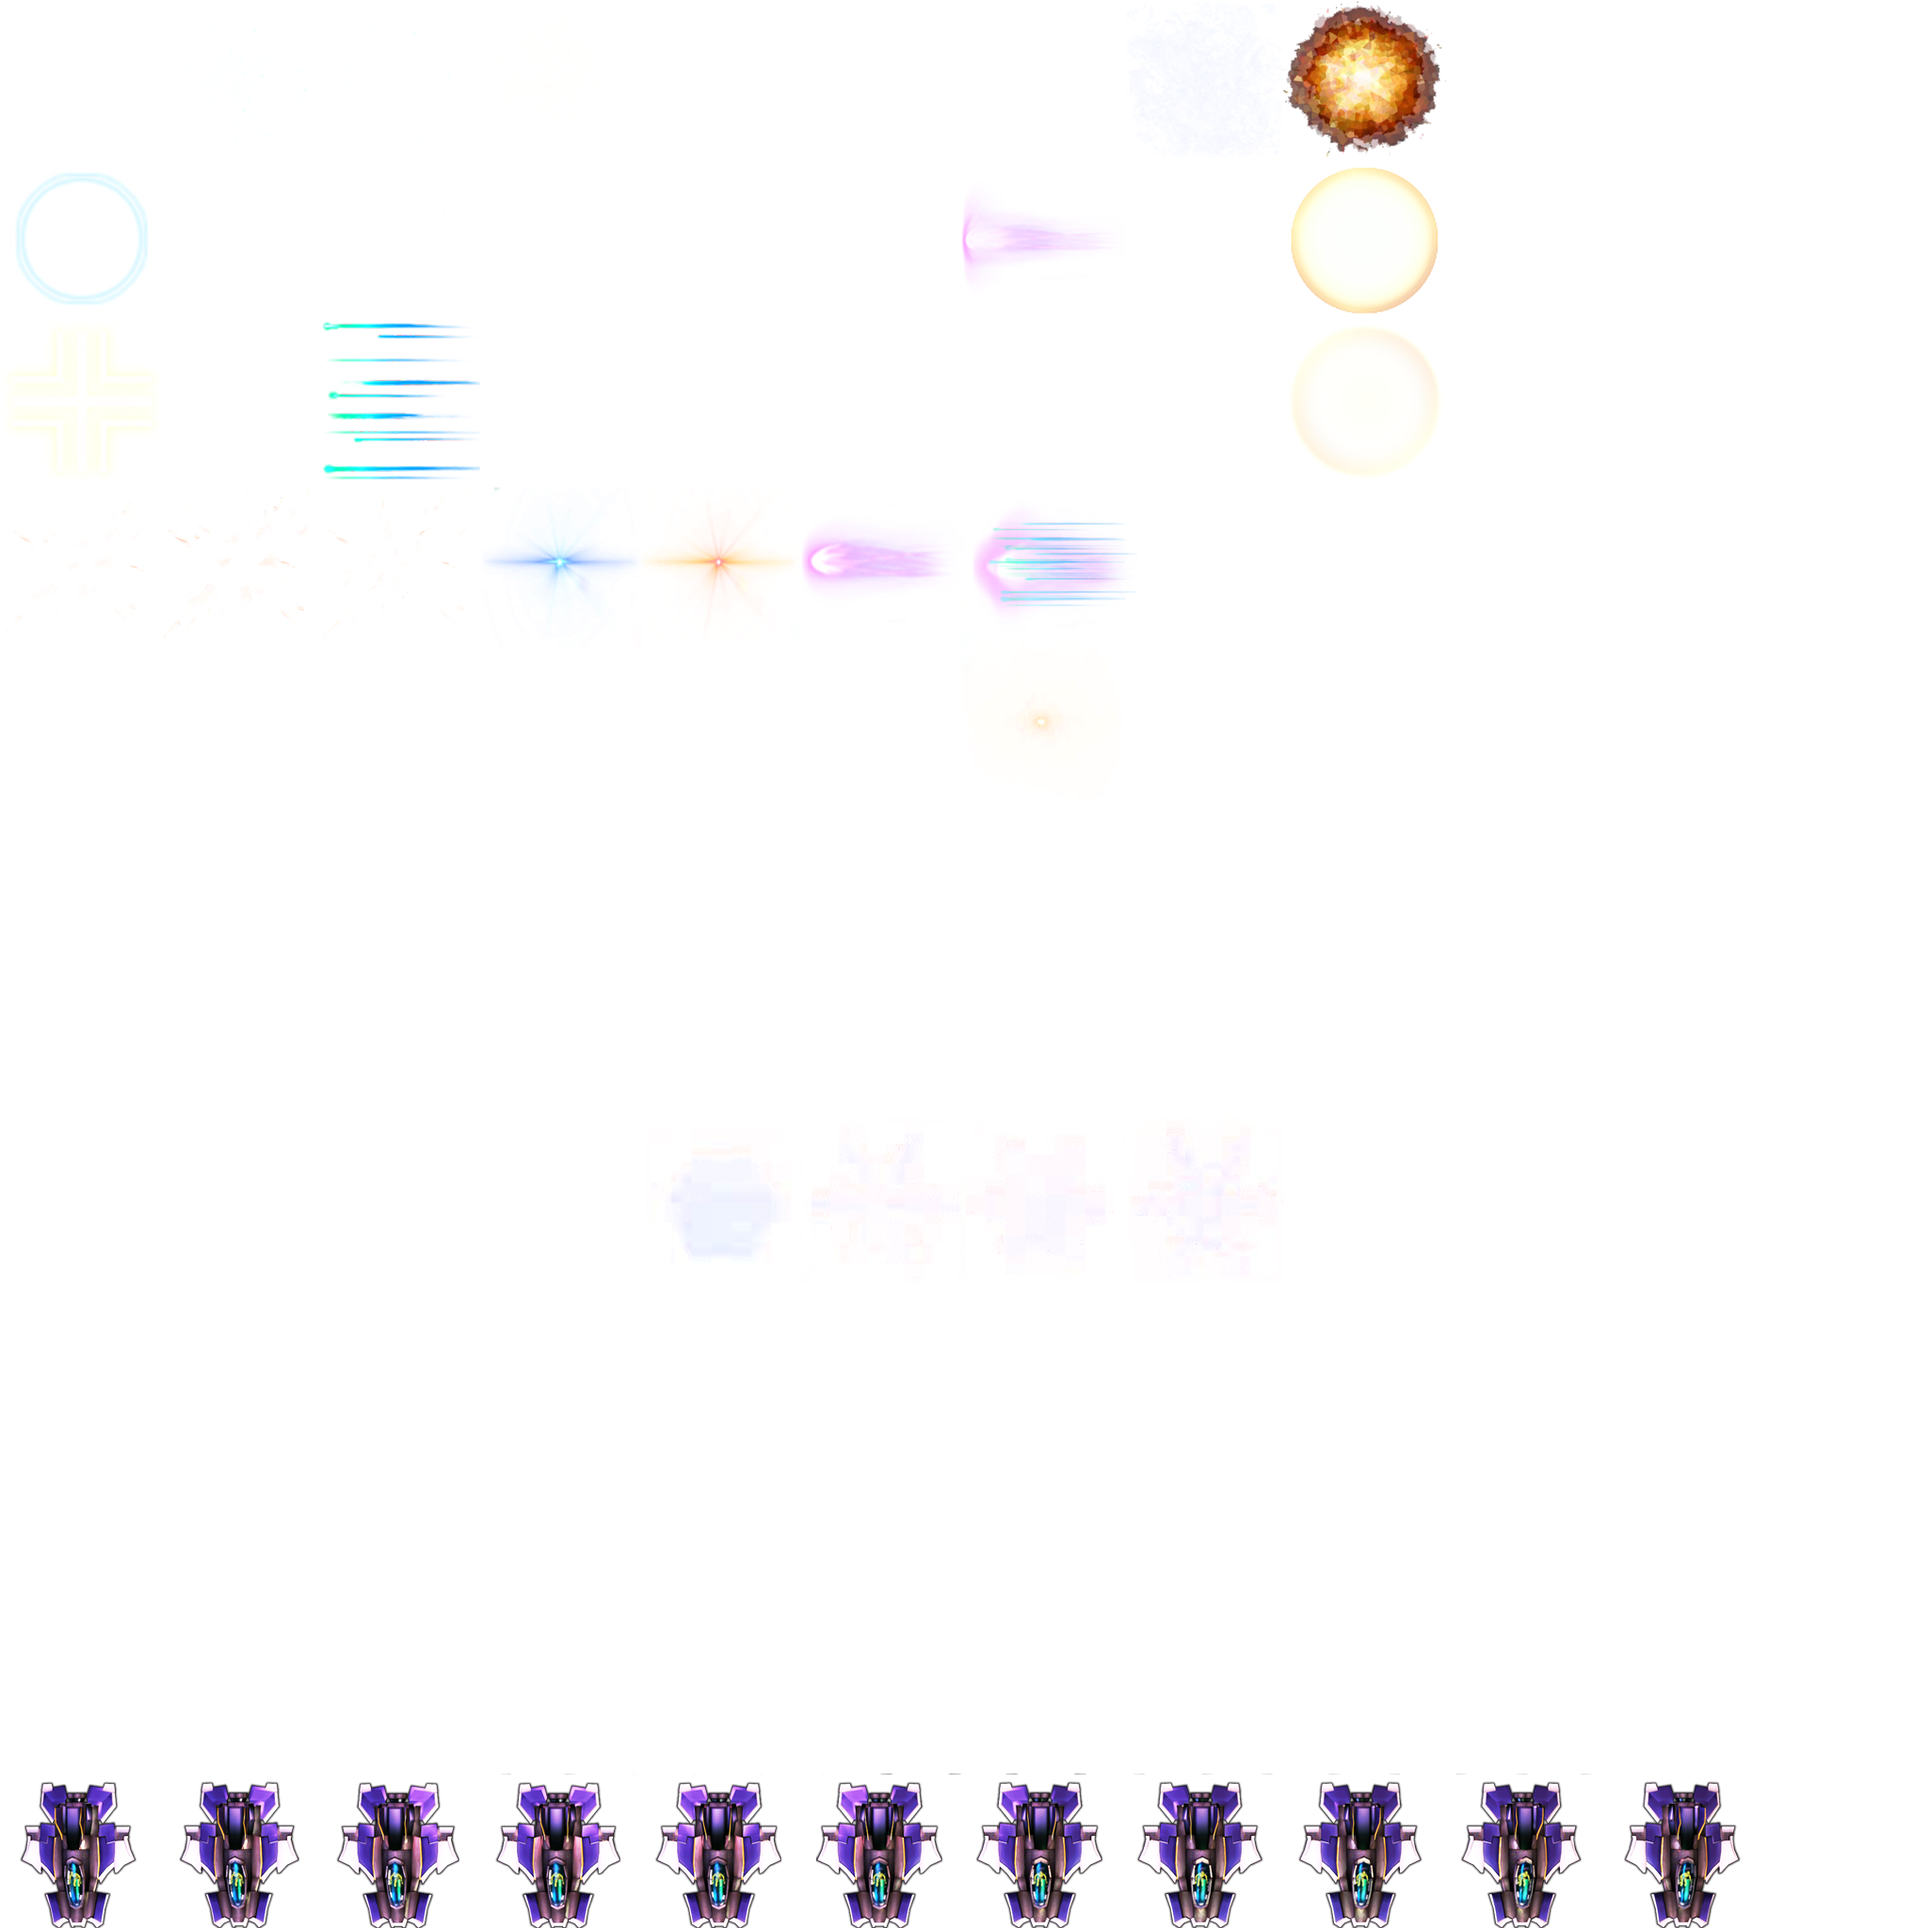
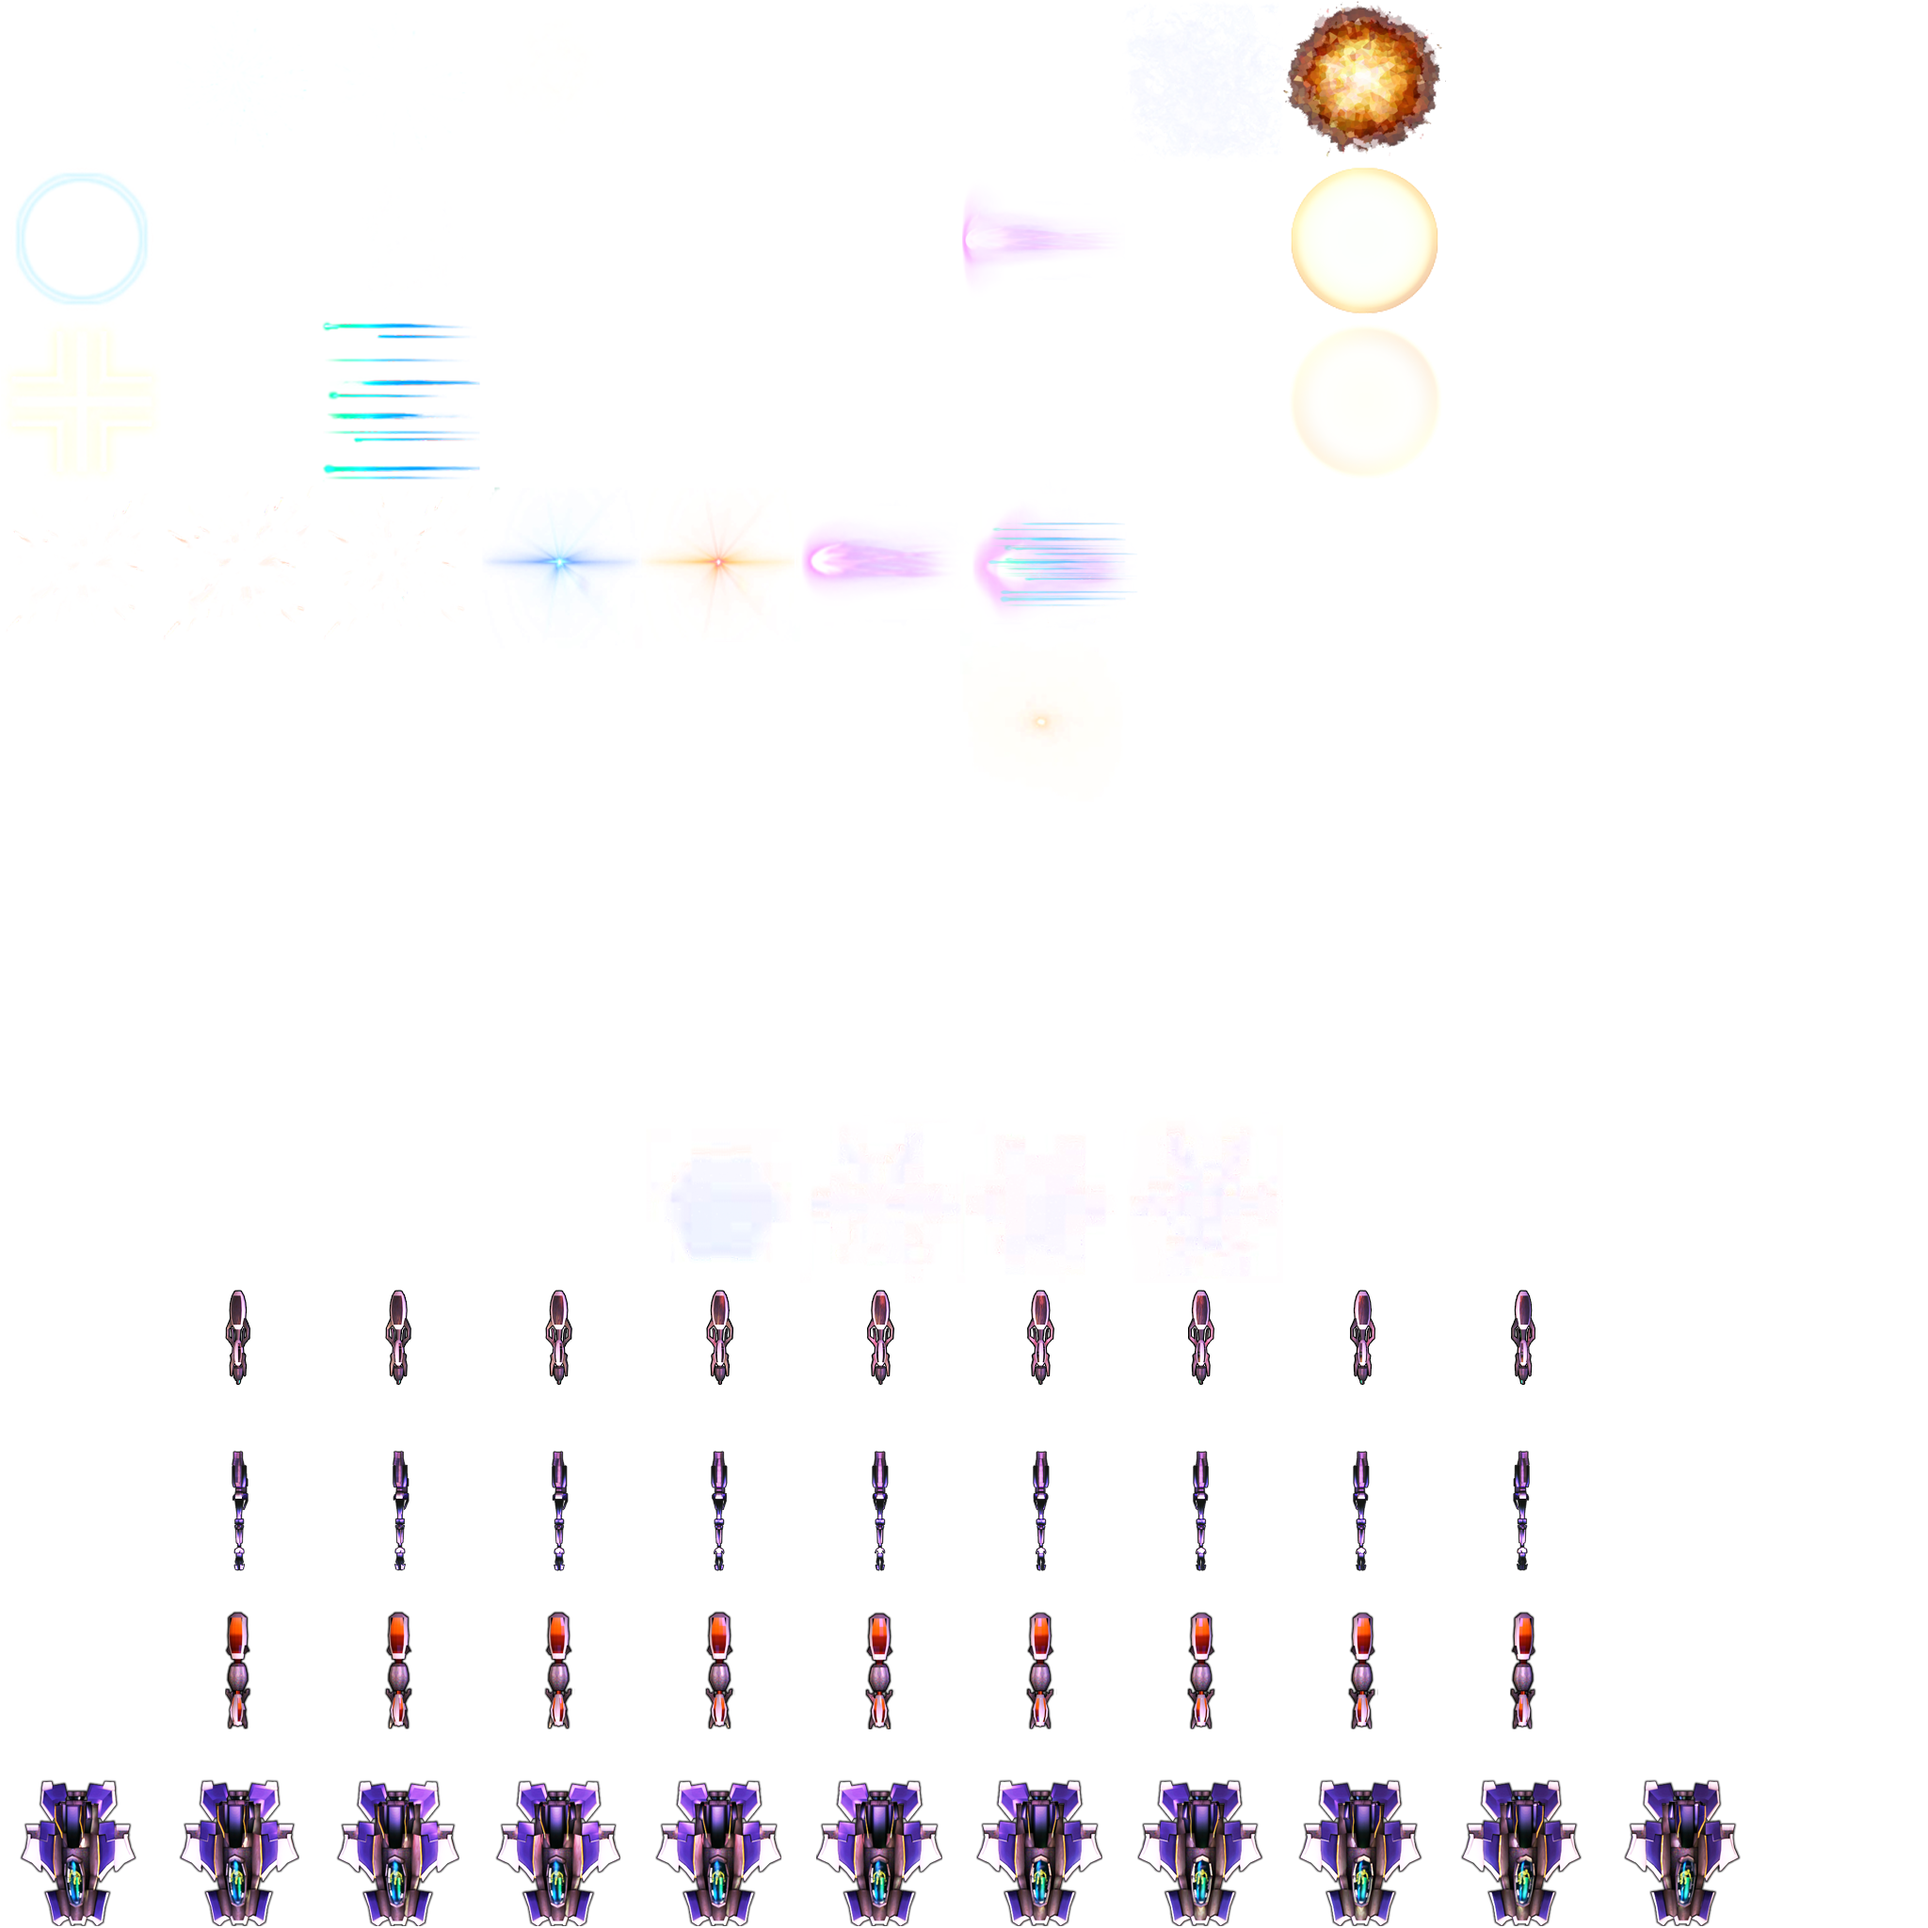
cannon visual modules

diff --git a/Server/Game/ServerWorld.js b/Server/Game/ServerWorld.js
@@ -7,6 +7,8 @@ ServerWorld = function() {
 	this.pieceCount = 0;
 	this.pieceConfigs;
 
+	this.calcVec = new MATH.Vec3(0, 0, 0);
+
     var _this = this;
     var broadcast = function(piece) {
         _this.broadcastPieceState(piece);
@@ -60,19 +62,29 @@ ServerWorld.prototype.addBullet = function(sourcePiece, cannonModuleData, now, d
 	bullet.applyConfig(this.pieceConfigs.cannon_bullet);
 //	bullet.temporal.timeDelta = dt;
     bullet.spatial.setSpatial(sourcePiece.spatial);
-//    bullet.spatial.pos.setVec(sourcePiece.spatial.pos);
+
+    this.calcVec.setVec(sourcePiece.spatial.vel);
+    this.calcVec.scale(sourcePiece.temporal.stepTime * 3);
+
+    bullet.spatial.pos.addVec(this.calcVec);
+
+	this.calcVec.setArray(apply.transform.pos);
+
+	this.calcVec.rotateZ(sourcePiece.spatial.rot[0]);
+
+	bullet.spatial.pos.addVec(this.calcVec);
 
     bullet.setState(GAME.ENUMS.PieceStates.SPAWN);
 
     bullet.spatial.rotVel[0] = 0;
- //   bullet.spatial.rot[0] = sourcePiece.spatial.rot[0];
+    bullet.spatial.rot[0] += sourcePiece.spatial.rotVel[0] * sourcePiece.temporal.stepTime * 3;
 
     bullet.pieceControls.actions.applyForward = apply.exitVelocity;
     bullet.applyForwardControl(MODEL.ReferenceTime);
     this.broadcastPieceState(bullet);
 
     bullet.setState(GAME.ENUMS.PieceStates.MOVING);
-    bullet.spatial.vel.addVec(sourcePiece.spatial.vel);
+  //  bullet.spatial.vel.addVec(sourcePiece.spatial.vel);
 
 	this.pieces.push(bullet);
 };

diff --git a/client/js/ui/GooModule.js b/client/js/ui/GooModule.js
@@ -60,6 +60,8 @@ define([
                 }
             }
 
+            
+            
             if (this.applies.game_effect) {
 
                 var getRotation = function() {
@@ -207,10 +209,11 @@ define([
 
             this.entity.transformComponent.worldTransform.rotation.applyPost(this.tempSpatial.pos);
 
-            this.tempSpatial.pos.data[0] += this.entity.transformComponent.worldTransform.translation.data[0];
-            this.tempSpatial.pos.data[1] += this.entity.transformComponent.worldTransform.translation.data[1];
-            this.tempSpatial.pos.data[2] += this.entity.transformComponent.worldTransform.translation.data[2];
+            this.tempSpatial.pos.data[0] = this.entity.transformComponent.worldTransform.translation.data[0];
+            this.tempSpatial.pos.data[1] = this.entity.transformComponent.worldTransform.translation.data[1];
+            this.tempSpatial.pos.data[2] = this.entity.transformComponent.worldTransform.translation.data[2];
 
+    //        evt.fire(evt.list().DRAW_POINT_AT, {pos:this.entity.transformComponent.worldTransform.translation, color:"YELLOW"})
         };
 
 

diff --git a/Shared/MATH.js b/Shared/MATH.js
@@ -143,6 +143,13 @@ if(typeof(MATH) == "undefined"){
 		array[2] = this.data[2];
 	};
 
+	MATH.Vec3.prototype.setArray = function(data) {
+		this.data[0] = data[0];
+		this.data[1] = data[1];
+		this.data[2] = data[2];
+		return this;
+	};
+
 	MATH.Vec3.prototype.setVec = function(vec3) {
 		this.data[0] = vec3.data[0];
 		this.data[1] = vec3.data[1];
@@ -157,6 +164,13 @@ if(typeof(MATH) == "undefined"){
 		return this;
 	};
 
+	MATH.Vec3.prototype.addXYZ = function(x, y, z) {
+		this.data[0] += x;
+		this.data[1] += y;
+		this.data[2] += z;
+		return this;
+	};
+	
 	MATH.Vec3.prototype.subVec = function(vec3) {
 		this.data[0] -= vec3.data[0];
 		this.data[1] -= vec3.data[1];
@@ -171,6 +185,14 @@ if(typeof(MATH) == "undefined"){
 		return this;
 	};
 
+	MATH.Vec3.prototype.rotateZ = function(angZ) {
+		var cs = Math.cos(angZ);
+		var sn = Math.sin(angZ);
+		this.setXYZ(this.data[0] * cs - this.data[1] * sn, this.data[0] * sn + this.data[1] * cs);
+		return this;		
+	};
+	
+	
 
 
 

diff --git a/client/js/lib/particles/defaults/DefaultSpriteAtlas.js b/client/js/lib/particles/defaults/DefaultSpriteAtlas.js
@@ -129,6 +129,18 @@ define({
 				"tiles":[[2, 2],[3, 2],[4, 1], [5, 2], [6, 0], [7, 2], [8, 1]]
 			},
 			{
+				"id":"cannon_plasma_frames",
+				"tiles":[[1, 8],[2, 8], [3, 8], [4, 8], [5, 8], [6, 8],[7, 8],[8, 8],[9, 8]]
+			},
+			{
+				"id":"cannon_auto_frames",
+				"tiles":[[1, 9],[2, 9], [3, 9], [4, 9], [5, 9], [6, 9],[7, 9],[8, 9],[9, 9]]
+			},
+			{
+				"id":"cannon_lazer_frames",
+				"tiles":[[1, 10],[2, 10], [3, 10], [4, 10], [5, 10], [6, 10],[7, 10],[8, 10],[9, 10]]
+			},
+			{
 				"id":"s11_frames",
 				"tiles":[[0, 11],[1, 11],[2, 11], [3, 11], [4, 11], [5, 11], [6, 11],[7, 11],[8, 11],[9, 11], [10, 11]]
 			},

diff --git a/client/js/ui/GooMonitor.js b/client/js/ui/GooMonitor.js
@@ -286,8 +286,8 @@ define([
             PipelineAPI.subscribeToCategoryKey("setup", "DEBUG", debugLoaded);
             evt.fire(evt.list().MONITOR_STATUS, {CAMERA:'Cam'});
 
-    //        evt.on(evt.list().DRAW_LINE_BETWEEN, drawLineBetween);
-    //        evt.on(evt.list().DRAW_POINT_AT, drawPointAt);
+            evt.on(evt.list().DRAW_LINE_BETWEEN, drawLineBetween);
+            evt.on(evt.list().DRAW_POINT_AT, drawPointAt);
 
             PipelineAPI.subscribeToCategoryKey('STATUS', 'MON_SPATIAL', monitorSpatial);
         }

diff --git a/Shared/MODEL.js b/Shared/MODEL.js
@@ -108,6 +108,11 @@ if(typeof(MODEL) == "undefined"){
         return vec3;
 	};
 
+    MODEL.Spatial.prototype.getOffsetVector = function(vec3, store) {
+        vec3.setXYZ(Math.cos(this.rot[0] -Math.PI*0.5), Math.sin(this.rot[0] -Math.PI*0.5), 0);
+        return store;
+    };
+    
 
 	MODEL.Spatial.prototype.setPosXYZ = function(x, y, z) {
 		this.pos.setXYZ(x, y, z);

diff --git a/client/js/3d/effects/GooGameEffect.js b/client/js/3d/effects/GooGameEffect.js
@@ -43,7 +43,6 @@ define([
             this.paused = false;
             this.callbacks.particleUpdate = this.onEnabledUpdate;
             evt.fire(evt.list().GAME_EFFECT, {effect:this.game_effect, pos:this.spatial.pos, vel:this.spatial.vel, callbacks:this.callbacks});
-
         };
 
         GooGameEffect.prototype.setEffectIntensity = function(intensity) {
